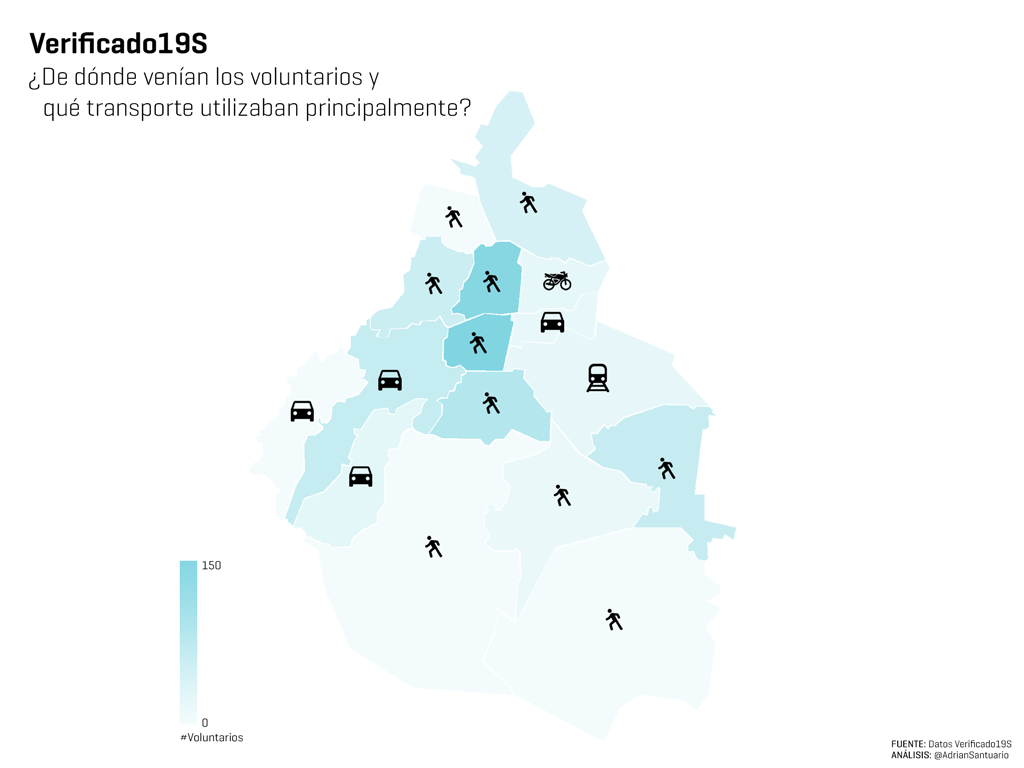
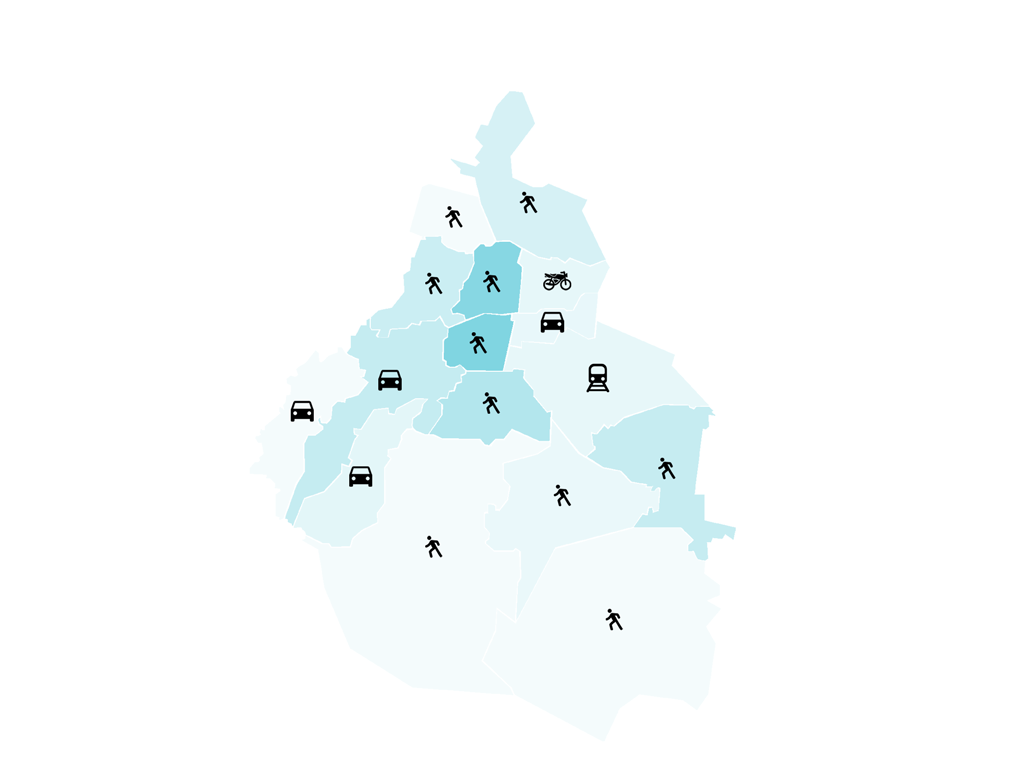
interface

diff --git a/sketch.js b/sketch.js
@@ -22,6 +22,18 @@ var items = [];
 var itemsCount = 1;
 
 
+// Header
+var headerSubtitle;
+
+// Scale;
+var scaleTitle;
+var scaleMaxValue;
+
+// State
+
+var currentColor;
+
+
 /*
  *****************************************
  *****************************************
@@ -57,6 +69,8 @@ function draw() {
   clear();
   drawBackground();
   drawItems();
+  drawHeader();
+  drawScale();
 
 }
 
@@ -70,9 +84,40 @@ function draw() {
  */
 
 function initialize() {
+
+
   initializeBackground();
   initializeItems();
+  initializeHeader();
+  initializeScale();
+  setState("MOVILITY");
 }
+
+
+/*
+ *****************************************
+ *****************************************
+ * STATE METHODS
+ *****************************************
+ *****************************************
+ */
+
+function setState(_state) {
+
+  if (_state == "MOVILITY") {
+    currentColor = color(167, 225, 234)
+    scaleTitle = "#Voluntarios";
+    scaleMaxValue = "150";
+  } else if (_state == "AGE") {
+    currentColor = color(167, 225, 234)
+    scaleTitle = "Edad";
+    scaleMaxValue = "50";
+  }
+
+  updateItemsState(_state);
+}
+
+
 
 
 /**/ ///////////////////////////
@@ -88,11 +133,78 @@ function initializeBackground() {
 function drawBackground() {
   var correctionX = (windowWidth / 2) - (backgroundImage.width / 2);
   var correctionY = (windowHeight / 2) - (backgroundImage.height / 2);
-  image(backgroundImage,correctionX, correctionY);
+  image(backgroundImage, correctionX, correctionY);
 }
 
 
+/*
+ *****************************************
+ *****************************************
+ * HEADER METHODS
+ *****************************************
+ *****************************************
+ */
 
+
+function initializeHeader() {
+
+  headerSubtitle = "¿De dónde venían los voluntarios y qué transporte utilizaban principalmente?"
+}
+
+function drawHeader() {
+  textAlign(LEFT, TOP);
+  noStroke();
+  //Title
+  textSize(30);
+  text("Verifcado 19S", 30, 20);
+
+  //Subtitle
+  textSize(20);
+  text(headerSubtitle, 30, 60);
+}
+
+
+/**/ ///////////////////////////
+///////////////////////////////
+//////// SCALE METHODS
+///////////////////////////////
+//////////////////////////// */ 
+
+function initializeScale() {
+
+
+}
+
+
+function drawScale() {
+
+  var initialPosX = 30;
+  var initialPosY = 30;
+
+  for (var i = 0; i < 150; i++) {
+    fill(colorAlpha(currentColor, map(i, 0, 150, 1, 0)));
+    rect(initialPosX, windowHeight - 150 - initialPosY + i, 15, 1);
+  }
+
+
+
+
+  //Title
+  fill(0, 255);
+  textSize(10);
+  text(scaleTitle, initialPosX, windowHeight - initialPosY + 3);
+  textAlign(LEFT, BOTTOM);
+  text("0", initialPosX + 15 + 3, windowHeight - initialPosY);
+  textAlign(LEFT, TOP);
+  text(scaleMaxValue, initialPosX + 15 + 3, windowHeight - initialPosY - 150);
+
+
+}
+
+function colorAlpha(aColor, alpha) {
+  var c = color(aColor);
+  return color('rgba(' + [red(c), green(c), blue(c), alpha].join(',') + ')');
+}
 
 
 /*
@@ -122,8 +234,8 @@ function initializeItems() {
 
   for (var i = 0; i < itemsCount; i++) {
     items.push(new Item(i,
-      100,
-      100,
+      -18,
+      182,
       110,
       "Álvaro Obregón",
       window['img' + i],
@@ -140,4 +252,26 @@ function drawItems() {
     items[i].update();
     items[i].display();
   }
+}
+
+
+function updateItemsState(_state) {
+
+  for (var i = 0; i < itemsCount; i++) {
+    items[i].updateState(_state);
+  }
+}
+
+
+/*
+ *****************************************
+ *****************************************
+ * UI METHODS
+ *****************************************
+ *****************************************
+ */
+
+
+function mouseClicked() {
+  print(((windowWidth / 2) - mouseX) + " :: " + mouseX + " , " + ((windowHeight / 2) - mouseY) + " :: " + mouseY);
 }

diff --git a/item.js b/item.js
@@ -53,9 +53,22 @@ function Item(_id, _x, _y, _voluntaryNumber, _nameItem, _img, _imgIcons, _curren
 
   }
 
+  this.updateState = function(_state) {
+
+    if (_state == "MOVILITY") {
+      this.currentColor = color(167, 225, 234)
+    } else if (_state == "AGE") {
+      this.currentColor = color(167, 225, 234)
+    }
+    
+
+  }
+
+
+
+
   this.displayInfo = function() {
-    //textSize(32);
-    text("word", 10, 30);
+
 
 
     var posX = 10;
@@ -75,7 +88,7 @@ function Item(_id, _x, _y, _voluntaryNumber, _nameItem, _img, _imgIcons, _curren
     image(this.imgIcons, windowWidth - posX - 50 - sw, windowHeight - posY + 20, this.imgIcons.width, this.imgIcons.height);
 
 
-    
+
     // Rects Walk
     rect(windowWidth - posX - 50 + 25 - sw, windowHeight - posY + 27, 150, 15);
     // Rects Car
@@ -86,16 +99,17 @@ function Item(_id, _x, _y, _voluntaryNumber, _nameItem, _img, _imgIcons, _curren
     rect(windowWidth - posX - 50 + 25 - sw, windowHeight - posY + 87, 150, 15);
     // Rects Moto
     rect(windowWidth - posX - 50 + 25 - sw, windowHeight - posY + 107, 150, 15);
-    
-    
+
+
     // Scale
     textAlign(RIGHT, CENTER);
     fill(0, 255);
     textSize(10);
-    var s = this.nameItem;
-    text("100%", windowWidth - posX - 50 + 25 - sw +150, windowHeight - posY + 127);
-    
-    
+    text("100%", windowWidth - posX - 50 + 25 - sw + 150, windowHeight - posY + 130);
+    textAlign(LEFT, CENTER);
+    text("FUENTE: Verificado19S", windowWidth - posX - 50 - sw, windowHeight - posY + 140);
+
+
     /*
     // Cluster
      textSize(18);
@@ -110,7 +124,7 @@ function Item(_id, _x, _y, _voluntaryNumber, _nameItem, _img, _imgIcons, _curren
 
     stroke(red(this.currentColor), green(this.currentColor), blue(this.currentColor), 255);
     //Line 
-    line(this.x, this.y, windowWidth - posX - 50 - sw, windowHeight - posY);
+    line(windowWidth/2 - this.x, windowHeight/2 - this.y, windowWidth - posX - 50 - sw, windowHeight - posY);
 
   }
 
